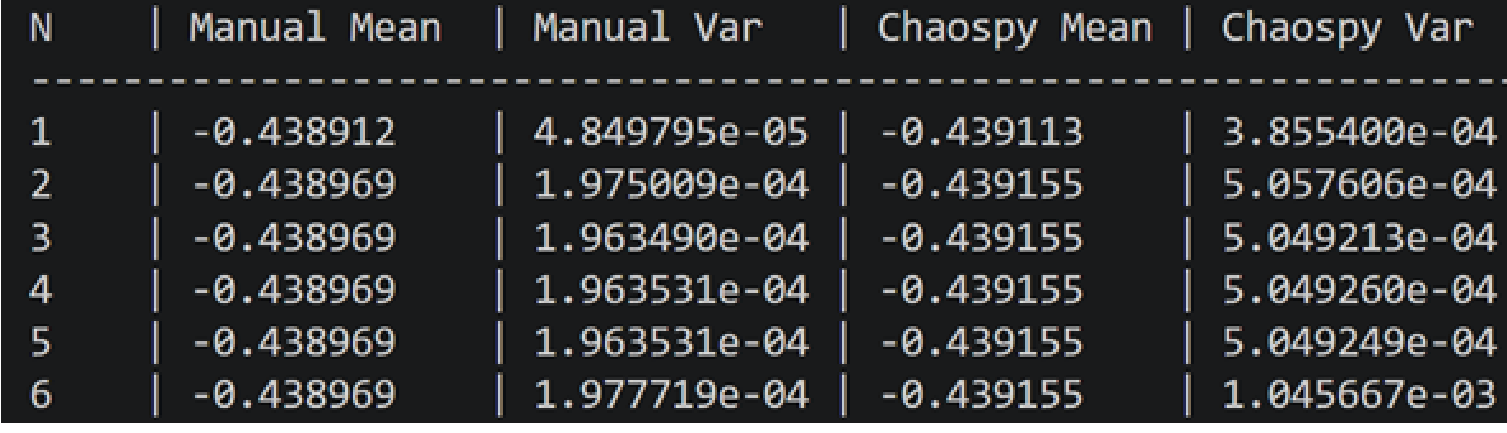
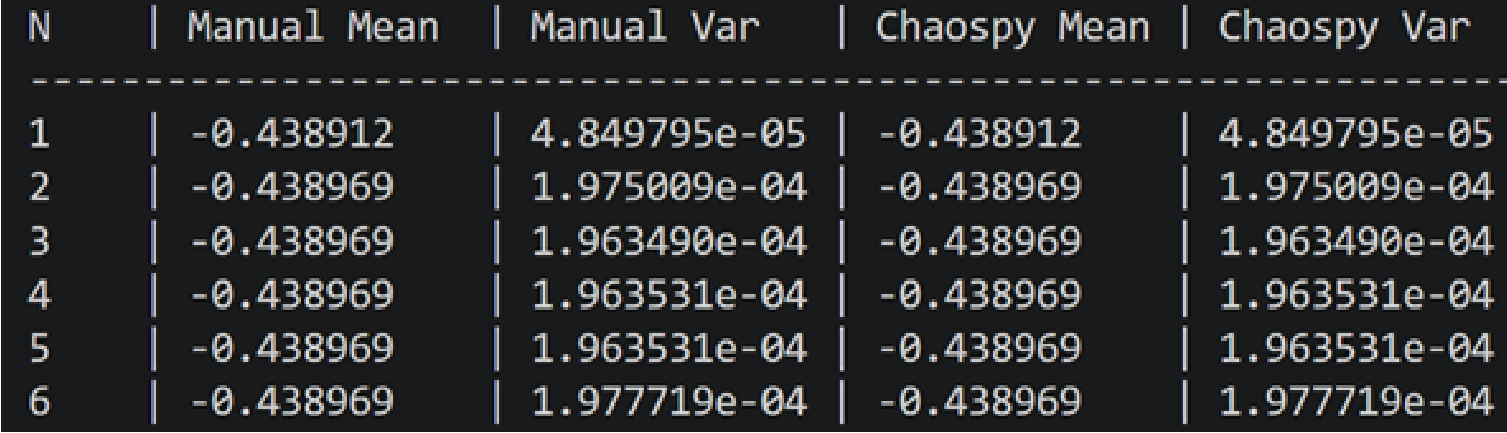
Added corrected version of assignment 4

diff --git a/Exercise2/assignment_4.py b/Exercise2/assignment_4.py
@@ -24,33 +24,23 @@ def compute_coefficients(
     """
     # 1. Run the forward model simulation at the quadrature nodes
     t_grid = np.array([0.0, target_t])
-    # simulate returns shape (num_nodes, t_grid.size)
     sim_outputs = simulate(t_grid, nodes, model_kwargs, init_cond)
-    # Extract the solution at target_t (t = 10), which is the second index
     y_at_T = sim_outputs[:, 1]
 
     if mode == "manual":
-        # Eq (6) manual integration: c_i = \sum_{k} y(t, \omega_k) * \phi_i(\omega_k) * w_k / <\phi_i, \phi_i>
-        # Since polynomials are orthogonal, inner product <\phi_i, \phi_i> is equal to E[\phi_i^2]
-        # For chaospy orthogonal polynomials, cp.E(polynomials**2, dist) gives these norms.
-        
-        # Alternatively, using the discrete nodes/weights for the inner product normalization:
         # Expected value of polynomials squared:
         norms = np.array([np.sum((p(nodes)**2) * weights) for p in polynomials])
         
         coefficients = np.zeros(len(polynomials))
         for i, poly in enumerate(polynomials):
-            # Evaluate polynomial i at all nodes
             poly_eval = poly(nodes)
-            # Quadrature sum
             numerator = np.sum(y_at_T * poly_eval * weights)
             coefficients[i] = numerator / norms[i]
 
     elif mode == "chaospy":
-        # Use chaospy's built-in fit capability
-        # fit_quadrature expects expansion, nodes, weights, and model evaluations
-        # standard chaospy.fit_quadrature takes (expansion, nodes, weights, evaluations)
-        coefficients = cp.fit_quadrature(polynomials, nodes, weights, y_at_T)
+        # FIX: retall=1 returns a tuple: (fitted_polynomial, fourier_coefficients)
+        # We use a throwaway variable '_' for the model and capture the true coefficients array.
+        _, coefficients = cp.fit_quadrature(polynomials, nodes, weights, y_at_T, retall=1)
         
     else:
         raise ValueError(f"Unknown mode: {mode}")